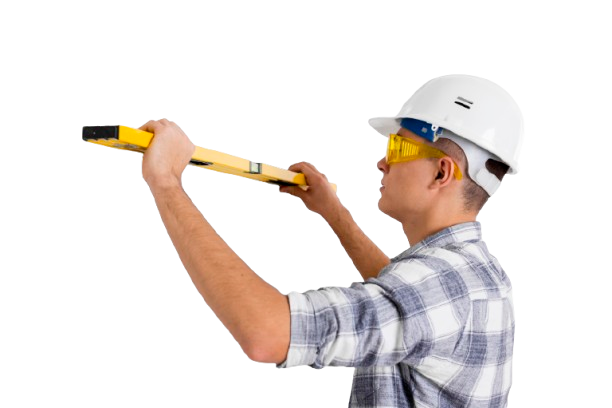
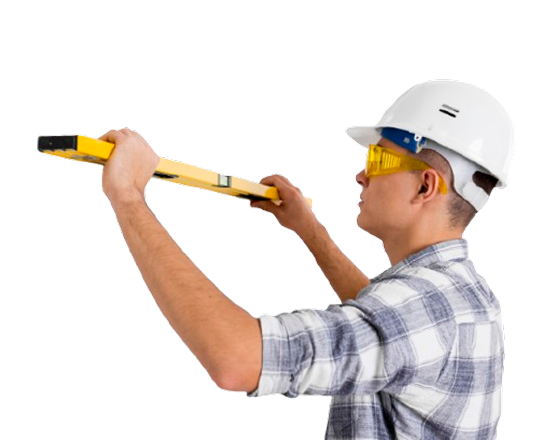
FIxed Image

Changed region(s): [[0.0609, 0.1765, 0.914, 1.0], [0.7312, 0.2353, 0.8226, 0.2647]]

diff --git a/resources/views/parts/ads.blade.php b/resources/views/parts/ads.blade.php
@@ -12,23 +12,26 @@
             @endphp
             @foreach ($data as $item)
             <div class="swiper-slide">
-                <div class="row slide-content" style="background-color: red;">
-                    <div class="col-md-6 col ms-5 mt-5 mb-5 align-self-center">
-                        <h1 class="text-white fw-bolder">Cek Promo <br>{{ $item['title'] }}</h1>
-                        <p class="text-white fw-light">
-                            {{ $item['jasa'] }}
-                        </p>
-                        <p class="fw-light text-white w-75">
-                            {{ $item['caption'] }}
-                        </p>
-                        <br>
+                <div class="row slide-content align-items-center" style="background-color: red; min-height: 399.98px;">
+
+                    <!-- TEXT -->
+                    <div class="col-lg-6 text-white ps-5 py-5">
+                        <h1 class="fw-bolder">Cek Promo <br>{{ $item['title'] }}</h1>
+                        <p class="fw-light">{{ $item['jasa'] }}</p>
+                        <p class="fw-light w-75">{{ $item['caption'] }}</p>
+
                         <a href="{{ route('jasa', ['promo' => $item['promo']]) }}" class="text-decoration-none">
                             Cek Promo
                         </a>
                     </div>
-                    <div class="col-md-6 d-lg-inline  w-25 align-self-end">
-                        <img src="{{ $item['path'] }}" height="440px" alt="Ads 1" class="d-lg-block d-md-block d-sm-none d-none">
+
+                    <!-- IMAGE -->
+                    <div class="col-lg-6 d-none d-lg-flex pe-5 justify-content-end">
+                        <img src="{{ $item['path'] }}"
+                            class="img-fluid"
+                            style="max-height: 400px;">
                     </div>
+
                 </div>
             </div>
             @endforeach
